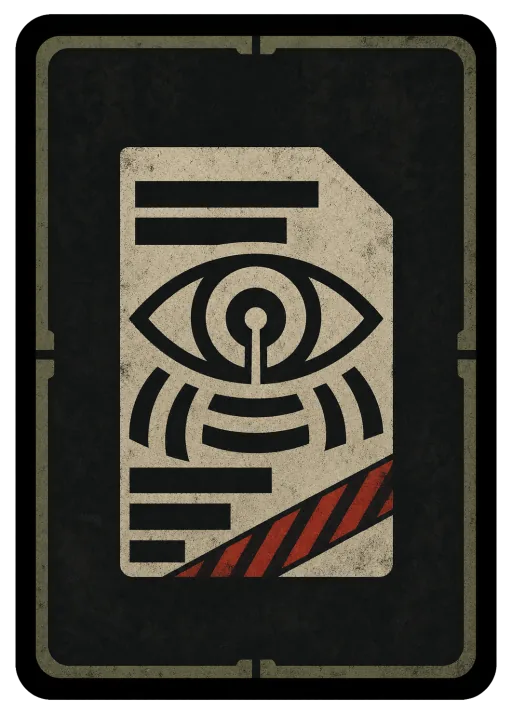
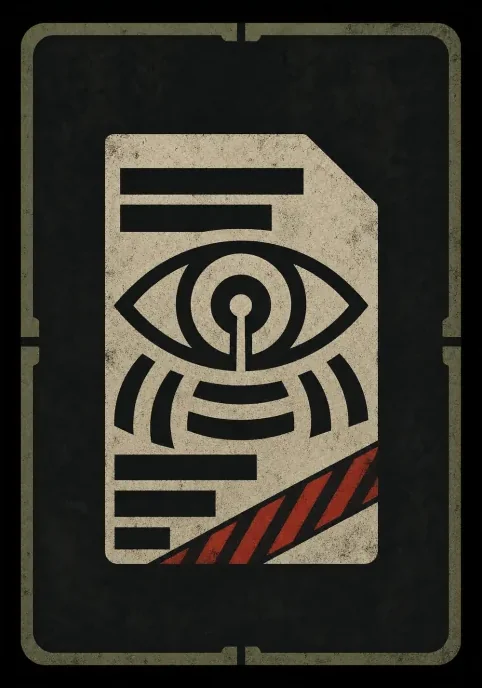
Adjust card rendering, add cachebust, update game.js

diff --git a/game.js b/game.js
@@ -163,17 +163,19 @@
     const col = index % 8, row = Math.floor(index / 8);
     const cropH = cellW * 117 / 142;
     ctx.fillStyle = '#d7ccb0'; ctx.fillRect(0, 0, canvas.width, canvas.height);
-    ctx.drawImage(atlas, col * cellW, row * cellH + (cellH - cropH) / 2, cellW, cropH, 36, 36, 564, 468);
+    // Bleed the artwork just beyond the chrome's transparent window so texture
+    // filtering cannot reveal the card-colored canvas along its inner edge.
+    ctx.drawImage(atlas, col * cellW, row * cellH + (cellH - cropH) / 2, cellW, cropH, 30, 29, 575, 473);
     ctx.drawImage(chrome, 0, 0, canvas.width, canvas.height);
     const [title, value] = CARD_DATA[index];
     ctx.textAlign = 'center'; ctx.textBaseline = 'middle'; ctx.fillStyle = '#eee8d7';
-    fitTitle(ctx, title, 540); ctx.fillText(title, 318, 541);
+    fitTitle(ctx, title, 532); ctx.fillText(title, 318, 533);
     ctx.font = '32px Cardo'; ctx.textAlign = 'left'; ctx.fillStyle = '#29251e';
     ctx.fillText('Conspiracy  •  Dossier', 52, 600);
     ctx.font = '29px Crimson';
     const copy = ['Uncover the hidden connection.', 'Deploy this dossier to the field', 'to advance your investigation.'];
     copy.forEach((line, i) => ctx.fillText(line, 52, 659 + i * 38));
-    ctx.fillStyle = '#f2e6c7'; ctx.textAlign = 'center'; ctx.font = 'bold 44px Cardo';
+    ctx.fillStyle = '#29251e'; ctx.textAlign = 'center'; ctx.font = 'bold 44px Cardo';
     ctx.fillText(String(value), 557, 817);
     return canvasTexture(canvas);
   }
@@ -199,8 +201,9 @@
     table.receiveShadow = true;
     scene.add(table);
 
-    const zone = new THREE.Mesh(new THREE.PlaneGeometry(11.4, 4.15), new THREE.MeshBasicMaterial({ color: 0x9b7436, transparent: true, opacity: 0.045, side: THREE.DoubleSide }));
-    zone.rotation.x = -Math.PI / 2; zone.position.set(-0.4, 0.012, -1.05); zone.name = 'battle-zone';
+    // Battle zone: covers player field rows (z = -1.4 to +2.8), centered at z = 0.7
+    const zone = new THREE.Mesh(new THREE.PlaneGeometry(11.4, 4.4), new THREE.MeshBasicMaterial({ color: 0x9b7436, transparent: true, opacity: 0.045, side: THREE.DoubleSide }));
+    zone.rotation.x = -Math.PI / 2; zone.position.set(-0.4, 0.012, 0.7); zone.name = 'battle-zone';
     scene.add(zone);
     const border = new THREE.LineSegments(new THREE.EdgesGeometry(zone.geometry), new THREE.LineBasicMaterial({ color: 0xb58b45, transparent: true, opacity: 0.24 }));
     border.rotation.copy(zone.rotation); border.position.copy(zone.position); scene.add(border);
@@ -391,11 +394,23 @@
     }
   }
 
-  function rollPhysicalDice(owner) {
+  // Roll values are decided here (pure RNG), before physics plays out.
+  // The physics sim is purely cosmetic; at reveal time the die snaps to show the pre-rolled face.
+  function rollD6() { return Math.floor(Math.random() * 6) + 1; }
+
+  // Returns a quaternion that puts `targetValue` face-up.
+  function quaternionForFaceUp(targetValue) {
+    const face = dieFaceNormals.find(f => f.value === targetValue);
+    const up = new THREE.Vector3(0, 1, 0);
+    const q = new THREE.Quaternion();
+    q.setFromUnitVectors(face.normal, up);
+    return q;
+  }
+
+  function rollPhysicalDice(owner, preRolledValues) {
     const isPlayer = owner === 'player';
     dice.forEach((die, i) => {
       die.visible = true; diceShadows[i].visible = true;
-      // Player: camera-right/bottom. Opponent: their right, seen by us at top-left.
       die.position.set(
         isPlayer ? 5.2 + i * .34 : -5.2 - i * .34,
         1.5 + i * .22,
@@ -406,7 +421,7 @@
     return new Promise(resolve => {
       const direction = isPlayer ? 1 : -1;
       diceAnimation = {
-        start: performance.now(), resolve, values: null, revealing: false,
+        start: performance.now(), resolve, values: preRolledValues, revealing: false,
         velocities: [
           new THREE.Vector3(-18 * direction, 27, -16 * direction),
           new THREE.Vector3(-21 * direction, 30, -13 * direction)
@@ -440,20 +455,42 @@
     });
   }
 
+  // Z axis: positive = toward camera/player, negative = away (opponent side).
+  // Card height is 2.18 units. Rows must be separated by at least 2.3 to avoid overlap.
+  //   hand:              z ≈  4.1
+  //   player field row0: z =  1.7,  row1: z = -0.3  (close to player, gaps from hand)
+  //   center divider:    z ≈ -1.5
+  //   opp field row0:    z = -3.2,  row1: z = -5.0  (clearly on opponent side)
+  const PLAYER_FIELD_Z_START =  1.7;
+  const PLAYER_FIELD_Z_STEP  = -2.0;
+  const OPP_FIELD_Z_START    = -3.2;
+  const OPP_FIELD_Z_STEP     = -1.8;
+
   function layoutBattlefield() {
+    const cols = Math.min(5, Math.max(1, battlefield.length));
     battlefield.forEach((card, i) => {
-      const cols = Math.min(5, battlefield.length);
       const row = Math.floor(i / cols), col = i % cols;
       const rowCount = Math.min(cols, battlefield.length - row * cols);
-      card.userData.target.set((col - (rowCount - 1) / 2) * 1.82 - .35, .08 + col * .009, -1.4 + row * 2.45);
+      card.userData.target.set(
+        (col - (rowCount - 1) / 2) * 1.78 - .35,
+        .08 + col * .009,
+        PLAYER_FIELD_Z_START + row * PLAYER_FIELD_Z_STEP
+      );
       card.userData.targetRot = 0;
       card.userData.zone = 'field';
     });
   }
 
   function layoutOpponentBattlefield() {
+    const cols = Math.min(5, Math.max(1, opponentBattlefield.length));
     opponentBattlefield.forEach((card, i) => {
-      card.userData.target.set((i - (opponentBattlefield.length - 1) / 2) * 1.3 - .4, .08 + i * .009, -4.55);
+      const row = Math.floor(i / cols), col = i % cols;
+      const rowCount = Math.min(cols, opponentBattlefield.length - row * cols);
+      card.userData.target.set(
+        (col - (rowCount - 1) / 2) * 1.78 - .4,
+        .08 + col * .009,
+        OPP_FIELD_Z_START + row * OPP_FIELD_Z_STEP
+      );
       card.userData.targetRot = Math.PI;
       card.userData.zone = 'opponent-field';
     });
@@ -481,9 +518,10 @@
       ? new THREE.Vector3(
         THREE.MathUtils.clamp(card.position.x, -5.4, 4.6),
         .08,
-        THREE.MathUtils.clamp(card.position.z, -3.35, 1.35)
+        // Keep card in the player field strip, nudged slightly toward center for dice roll visibility
+        THREE.MathUtils.clamp(card.position.z, -1.0, 2.6)
       )
-      : new THREE.Vector3(-.4, .08, -3.25);
+      : new THREE.Vector3(-.4, .08, -3.2);
     card.userData.zone = 'attack';
     card.userData.target.copy(target);
     card.userData.targetRot = owner === 'player' ? 0 : Math.PI;
@@ -566,8 +604,9 @@
     await stageAttackCard(card, 'player');
     const power = Math.max(2, ...battlefield.map(cardValue));
     const target = THREE.MathUtils.clamp(7 + power - cardValue(card), 2, 10);
-    const diceValues = await rollPhysicalDice('player');
-    const roll = diceValues[0] + diceValues[1];
+    const preRolled = [rollD6(), rollD6()];
+    const roll = preRolled[0] + preRolled[1];
+    await rollPhysicalDice('player', preRolled);
     await reportRoll(roll, 'player');
     transition(State.RESOLVING_PLAYER);
     if (roll <= target) {
@@ -601,8 +640,9 @@
       const target = THREE.MathUtils.clamp(7 + opponentPower - value, 2, 10);
       transition(State.ROLLING_AI);
       await stageAttackCard(card, 'ai');
-      const diceValues = await rollPhysicalDice('ai');
-      const roll = diceValues[0] + diceValues[1];
+      const preRolled = [rollD6(), rollD6()];
+      const roll = preRolled[0] + preRolled[1];
+      await rollPhysicalDice('ai', preRolled);
       await reportRoll(roll, 'ai');
       transition(State.RESOLVING_AI);
       if (roll <= target) {
@@ -696,7 +736,7 @@
       raycaster.ray.intersectPlane(dragPlane, point);
       if (point) dragging.position.copy(point);
       dragging.rotation.z *= .78;
-      const valid = point.z > -3.55 && point.z < 1.65 && Math.abs(point.x + .4) < 5.7;
+      const valid = point.z > -1.4 && point.z < 2.8 && Math.abs(point.x + .4) < 5.7;
       hint.textContent = valid ? 'RELEASE TO DEPLOY' : 'MOVE ONTO THE BATTLEFIELD';
       hint.classList.add('show');
       renderer.domElement.style.cursor = 'grabbing';
@@ -718,7 +758,7 @@
     if (!dragging) return;
     const card = dragging;
     dragging = null; hint.classList.remove('show');
-    const valid = card.position.z > -3.55 && card.position.z < 1.65 && Math.abs(card.position.x + .4) < 5.7;
+    const valid = card.position.z > -1.4 && card.position.z < 2.8 && Math.abs(card.position.x + .4) < 5.7;
     if (valid) attackCard(card);
     else { hand.push(card); layoutHand(); transition(State.PLAYER_IDLE); }
     renderer.domElement.style.cursor = 'default';
@@ -757,8 +797,9 @@
         if (!animation.revealing) {
           animation.revealing = true;
           animation.revealStart = now;
-          animation.values = dice.map(die => topFaceValueFromQuaternion(die.quaternion));
           animation.from = dice.map(die => ({ position: die.position.clone(), quaternion: die.quaternion.clone() }));
+          // Target quaternions show the pre-rolled face values upward.
+          animation.targetQuats = animation.values.map(v => quaternionForFaceUp(v));
         }
         const progress = Math.min(1, (now - animation.revealStart) / 720);
         const eased = 1 - Math.pow(1 - progress, 3);
@@ -766,7 +807,7 @@
           const half = die.geometry.parameters.width / 2;
           const revealPosition = new THREE.Vector3(i ? .34 : -.34, -.09 + half, -.45);
           die.position.lerpVectors(animation.from[i].position, revealPosition, eased);
-          die.quaternion.copy(animation.from[i].quaternion);
+          die.quaternion.slerpQuaternions(animation.from[i].quaternion, animation.targetQuats[i], eased);
         });
         if (progress === 1) {
           diceAnimation = null;
@@ -815,7 +856,7 @@
       await document.fonts.ready;
       const [tableTex, atlasTex, chromeTex, backTex, diceTex] = await Promise.all([
         loadTexture('./assets/table.webp'), loadTexture('./assets/cards.webp'),
-        loadTexture('./assets/card-front-chrome.webp'), loadTexture('./assets/card-back.webp'),
+        loadTexture('./assets/card-front-chrome.webp?v=20260712-2'), loadTexture('./assets/card-back.webp?v=20260712-2'),
         loadTexture('./assets/dice-occult-resin.webp')
       ]);
       makeTable(tableTex); makeDeck(backTex); makeDice(diceTex);

diff --git a/index.html b/index.html
@@ -42,6 +42,6 @@
   <div id="loading" class="loading"><span></span><div id="loading-message">OPENING THE ARCHIVE…</div></div>
   <script src="https://cdn.jsdelivr.net/npm/three@0.160.0/build/three.min.js"></script>
   <script src="./cards.js"></script>
-  <script src="./game.js"></script>
+  <script src="./game.js?v=20260712-2"></script>
 </body>
 </html>